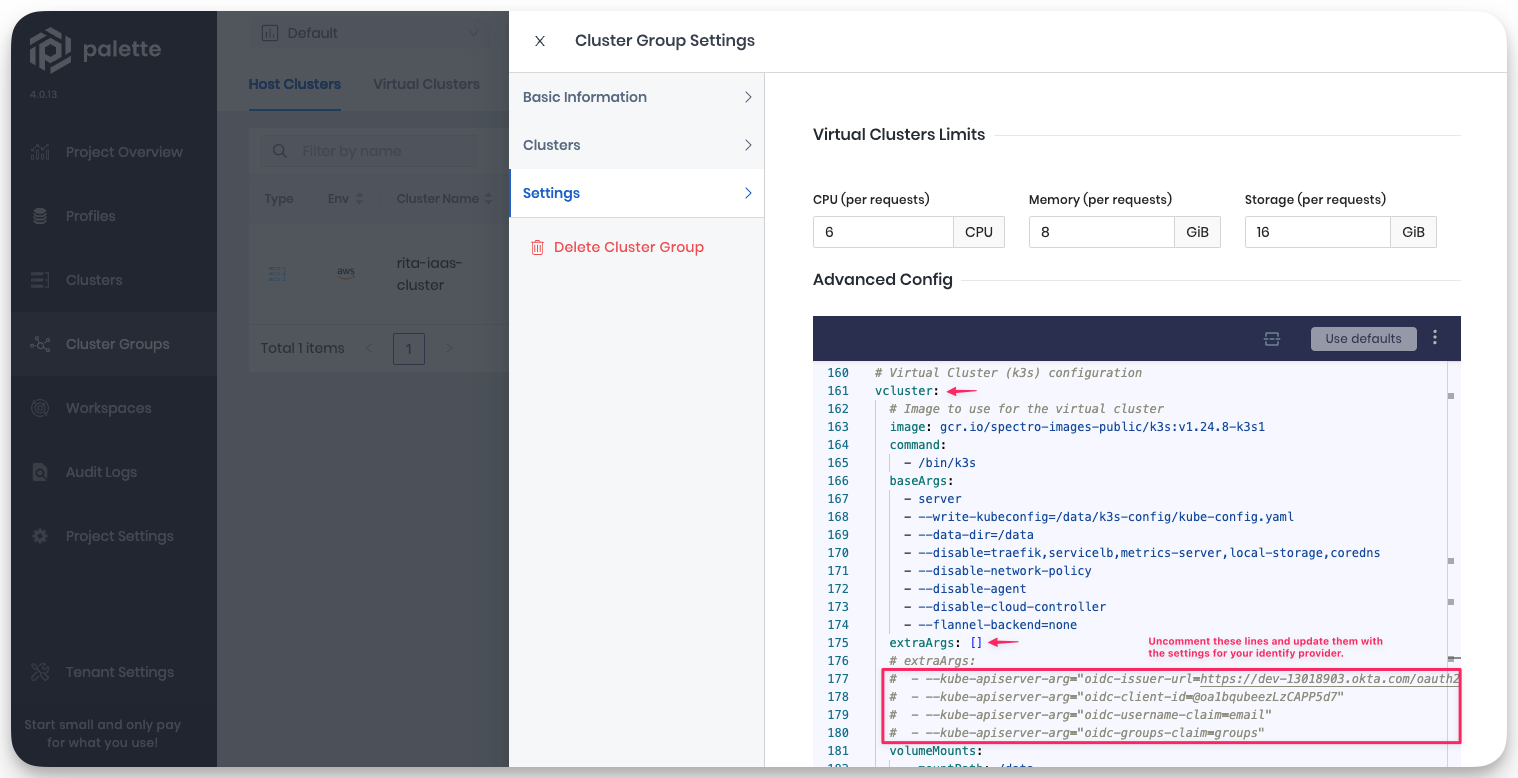
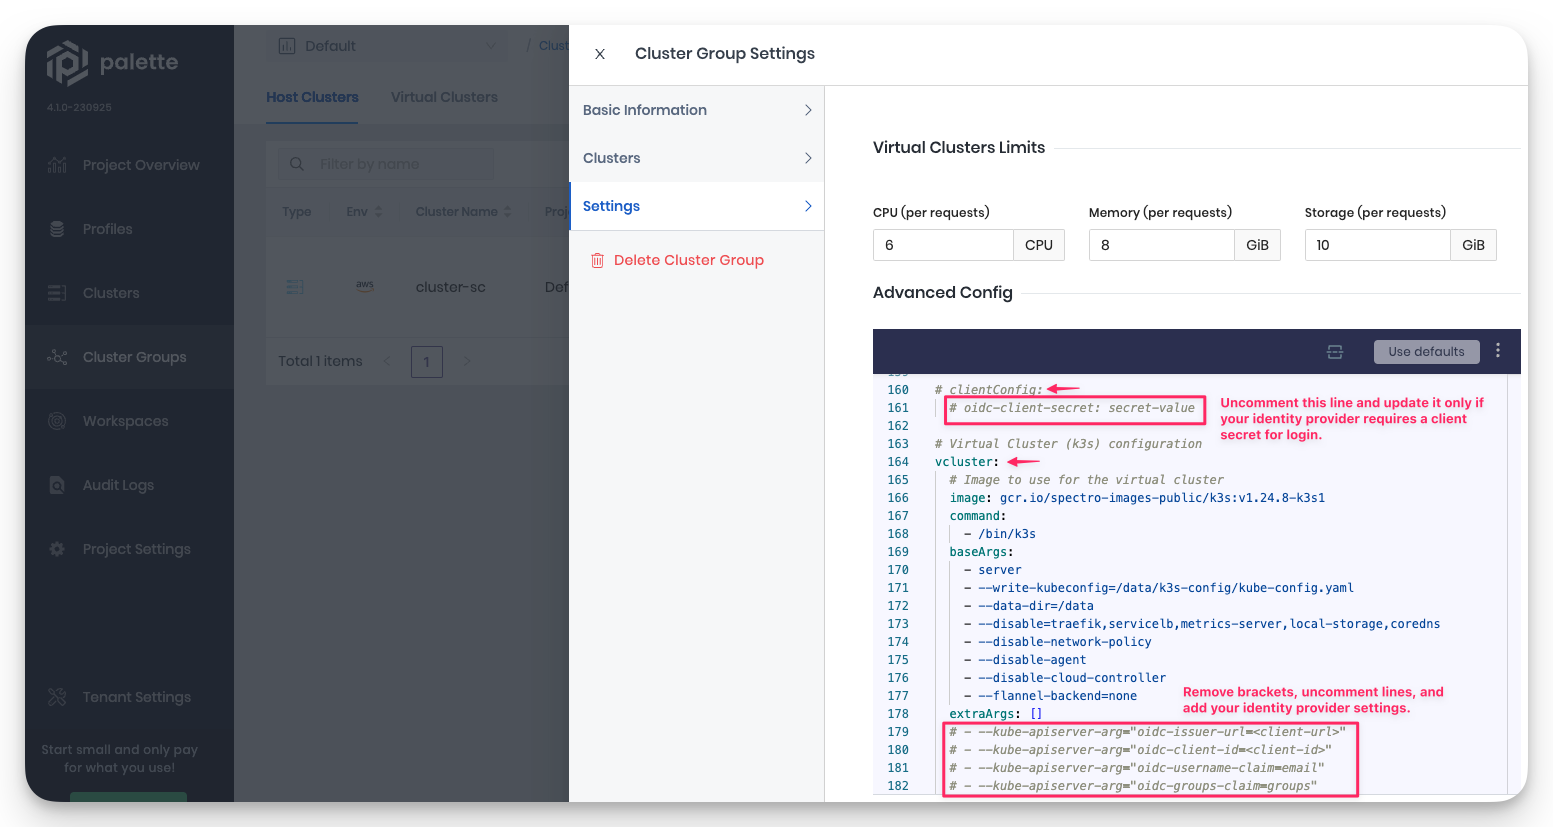
Update screenshot and examples

diff --git a/docs/docs-content/clusters/palette-virtual-clusters/configure-oidc-virtual-cluster.md b/docs/docs-content/clusters/palette-virtual-clusters/configure-oidc-virtual-cluster.md
@@ -46,17 +46,17 @@ Use these steps to configure your cluster group with OIDC *before* creating a vi
     ```yaml
     vcluster:
       extraArgs:	
-        - --kube-apiserver-arg=”oidc-issuer-url=URL"
-        - --kube-apiserver-arg="oidc-client-id=ID"
-        - --kube-apiserver-arg="oidc-username-claim=EMAIL"
-        - --kube-apiserver-arg="oidc-groups-claim=GROUPS"
+      - --kube-apiserver-arg=”oidc-issuer-url=<client-url>"
+      - --kube-apiserver-arg="oidc-client-id=<client-id>"
+      - --kube-apiserver-arg="oidc-username-claim=email"
+      - --kube-apiserver-arg="oidc-groups-claim=groups"
     ```
 
-9. If are configuring Okta OIDC, you must also provide the client secret. In the `clientConfig` parameter section of cluster group YAML file, uncomment the `oidc-client-secret` parameter and provide the Okta client secret.
+9. If your identity provider requires a client secret, uncomment the `oidc-client-secret` parameter in the `clientConfig` section of cluster group YAML file, and add the client secret.
 
     ```yaml
     clientConfig:	
-      oidc-client-secret: <CLIENT-SECRET>
+      oidc-client-secret: secret-value
     ```
 
 10. From the **User Menu**, switch to *App Mode* and click on **Virtual Clusters**.  
@@ -71,9 +71,9 @@ Use these steps to configure your cluster group with OIDC *before* creating a vi
 
   When the virtual cluster is finished deploying and in **Running** state, a Kubeconfig file is generated that contains OIDC information inserted into it from the cluster group configuration.
 
-12. Use the **Kubeconfig** link to download the Kubeconfig file. This will give you access the Kubernetes cluster.
+12. Use the **Kubeconfig** link that displays on the virtual clusters overview page to download the Kubeconfig file. This will give you access to the Kubernetes cluster.
 
-<<< Placeholder for possible screenshot >>>
+  In *App Mode* click on **Virtual Clusters** and select the virtual cluster. In *Cluster Mode* navigate to **Cluster Groups** > **Virtual Clusters** and select the virtual cluster.
 
 13. Configure Role-Based Access Control (RBAC) for the virtual cluster. 
 
